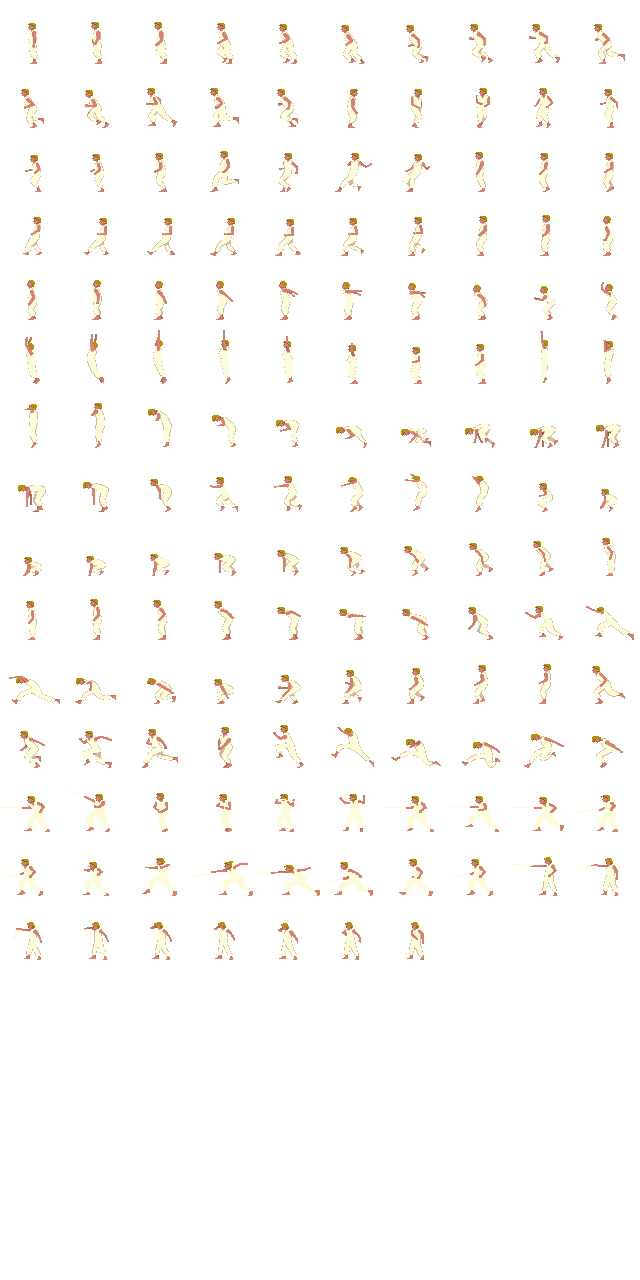
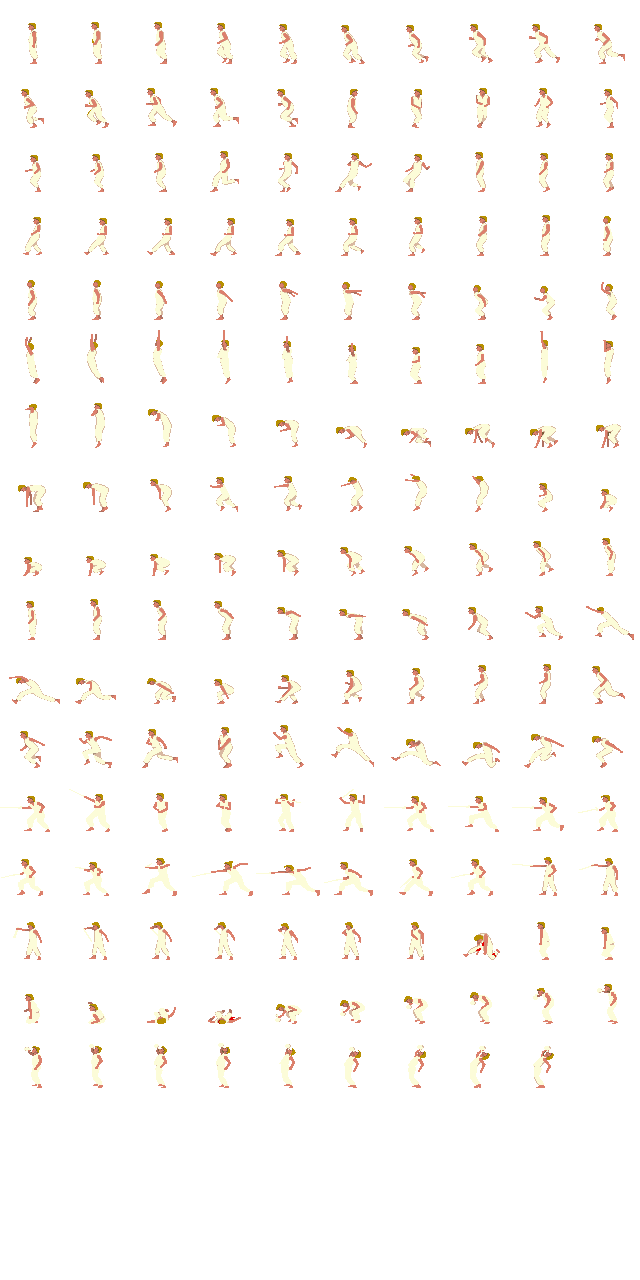
death + potion animation

diff --git a/2DGame/01-TBE/01-TBE/Vizier.cpp b/2DGame/01-TBE/01-TBE/Vizier.cpp
@@ -153,7 +153,7 @@ void Vizier::update(int deltaTime)
 		else if (frameant == 2 && frame == 3) posVizier.x -= 4;
 		else if (frameant == 3 && frame == 4) posVizier.x += 13;
 		else if (frameant == 4 && frame == 5) posVizier.x += 2;
-		if (frame == 3 && !player->isBlocking()) player->damage(1,"enemy");
+		if (frame == 3 && !player->isBlocking() && !player->isDead()) player->damage(1,"enemy");
 		break;
 	case ATTACK_R:
 		if (health == 0) sprite->changeAnimation(DIE_R);
@@ -165,7 +165,7 @@ void Vizier::update(int deltaTime)
 		else if (frameant == 2 && frame == 3) posVizier.x += 4;
 		else if (frameant == 3 && frame == 4) posVizier.x -= 13;
 		else if (frameant == 4 && frame == 5) posVizier.x -= 2;
-		if (frame == 3 && !player->isBlocking()) player->damage(1, "enemy");
+		if (frame == 3 && !player->isBlocking() && !player->isDead()) player->damage(1, "enemy");
 		break;
 	case CD_L:
 		cd += deltaTime;
@@ -176,7 +176,7 @@ void Vizier::update(int deltaTime)
 	case CD_R:
 		cd += deltaTime;
 		if (health == 0) sprite->changeAnimation(DIE_R);
-		else if (player->isAttackingLong() && !bloked) { bloked = true;  sprite->changeAnimation(BLOCK_R); }
+		else if (cd >= COOLDOWN && player->isAttackingLong() && !bloked) { bloked = true;  sprite->changeAnimation(BLOCK_R); }
 		else if (cd >= COOLDOWN) { bloked = false; sprite->changeAnimation(ATTACK_R); }
 		break;
 	case WALK_L:

diff --git a/2DGame/01-TBE/01-TBE/Scene.cpp b/2DGame/01-TBE/01-TBE/Scene.cpp
@@ -107,7 +107,6 @@ void Scene::init()
 	player->init(glm::ivec2(SCREEN_X, SCREEN_Y), texProgram);
 	player->setPosition(glm::vec2(INIT_PLAYER_X_TILES * ground_wall->getTileSizeW(), INIT_PLAYER_Y_TILES * ground_wall->getTileSizeH()));
 	player->setTileMap(ground_wall);
-
 	fallings = new Falling[NUM_FALLINGS];
 	for (int i = 0; i < NUM_FALLINGS; i++)
 	{
@@ -208,6 +207,9 @@ void Scene::init()
 
 void Scene::update(int deltaTime)
 {
+	if (player->isDead() && Game::instance().getKey(13)){ //enter key
+		this->init();
+	}
 	currentTime += deltaTime;
 	player->update(deltaTime);
 	for (int i = 0; i < NUM_TORCHS; i++)

diff --git a/2DGame/01-TBE/01-TBE/Player.h b/2DGame/01-TBE/01-TBE/Player.h
@@ -33,6 +33,8 @@ public:
 
 private:
 	bool bCombat, dead;
+	string direction;
+	int falldist;
 	int hp;
 	glm::ivec2 tileMapDispl, posPlayer;
 	int jumpAngle, startY;
